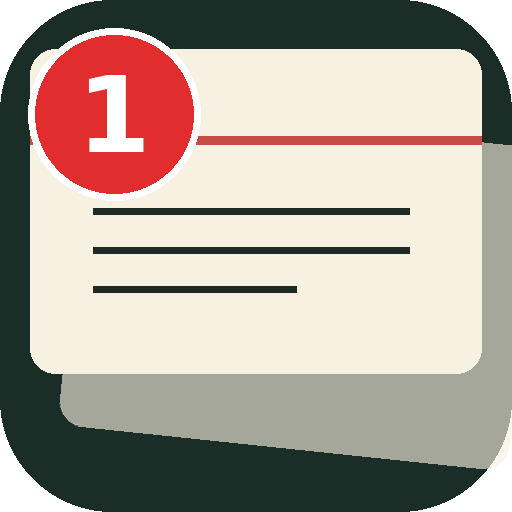
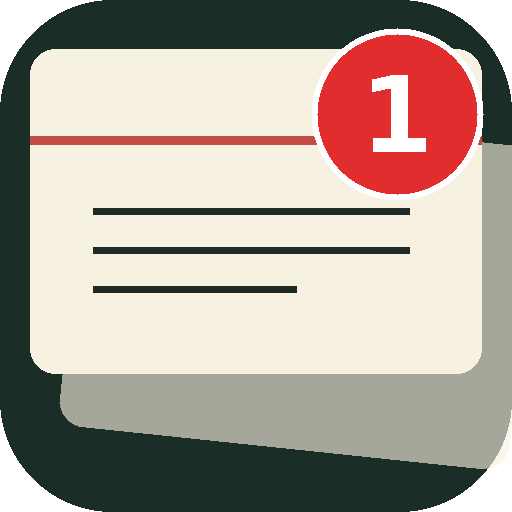
Add files via upload

Changed region(s): [[0.5938, 0.0312, 0.9688, 0.4062], [0.0312, 0.0312, 0.4062, 0.4062]]

diff --git a/css/style.css b/css/style.css
@@ -83,8 +83,7 @@ textarea, input {
 }
 
 /* Le fanion ✎ est présenté comme une icône d'appli (fond "squircle" façon
-   icône d'écran d'accueil), pour que la pastille qui le chevauche se lise
-   sans ambiguïté comme un badge de notification iOS. */
+   icône d'écran d'accueil). */
 .brand-mark-wrap {
   position: relative;
   display: inline-flex;
@@ -103,32 +102,6 @@ textarea, input {
   transform: rotate(-8deg);
   display: inline-block;
 }
-
-/* Pastille de notification façon icône iOS : cercle rouge en dégradé,
-   chevauchant le coin supérieur droit de l'icône, avec le liseré clair qui
-   la "découpe" du fond — comme sur l'écran d'accueil de l'iPhone. La police
-   système (plutôt que la police mono de l'appli) est ce qui rapproche le
-   plus le rendu du badge natif iOS. */
-.brand-badge {
-  position: absolute;
-  top: -6px;
-  right: -6px;
-  min-width: 17px;
-  height: 17px;
-  padding: 0 4px;
-  border-radius: 999px;
-  background: linear-gradient(180deg, #ff5c50, #e0362a);
-  color: #ffffff;
-  font-family: -apple-system, BlinkMacSystemFont, "SF Pro Text", var(--font-mono);
-  font-size: 11px;
-  font-weight: 700;
-  line-height: 17px;
-  text-align: center;
-  letter-spacing: 0;
-  box-shadow: 0 0 0 2px var(--desk);
-}
-
-.brand-badge[hidden] { display: none; }
 
 .brand h1 {
   margin: 0;
@@ -472,18 +445,13 @@ textarea, input {
 /* Boutons "Modifier" et "Hibernation" : posés dans le coin supérieur droit de
    la pile (au-dessus de la fiche, hors de l'élément qui la retourne), donc
    toujours visibles et cliquables côté question comme côté réponse, sans
-   déclencher le retournement de la fiche.
-   Le trou perforé (.hole) est physiquement en haut à gauche de la fiche,
-   mais comme toute la fiche pivote à 180° (rotateY) côté réponse, il se
-   retrouve visuellement en haut à droite — juste sous ces boutons. On les
-   décale donc vers la gauche (right: 50px / 90px, au lieu de 12px) pour
-   qu'ils ne chevauchent plus le trou une fois la fiche retournée. */
+   déclencher le retournement de la fiche. */
 .card-icon-btn {
   position: absolute;
-  top: 12px;
+  top: 10px;
   z-index: 5;
-  width: 32px;
-  height: 32px;
+  width: 34px;
+  height: 34px;
   border-radius: 50%;
   border: none;
   background: rgba(35, 48, 42, 0.08);
@@ -503,10 +471,23 @@ textarea, input {
 
 .card-icon-btn[hidden] { display: none; }
 
-.card-edit-btn { right: 50px; }
+/* Bouton "Modifier" : agrandi et plus contrasté que les autres icônes (le
+   crayon ✎ passait facilement inaperçu) — fond plus marqué, trait plus épais
+   et plus sombre. */
+.card-edit-btn {
+  right: 12px;
+  width: 42px;
+  height: 42px;
+  font-size: 22px;
+  font-weight: 700;
+  background: rgba(35, 48, 42, 0.14);
+  color: var(--ink);
+}
+
+.card-edit-btn:hover { background: rgba(35, 48, 42, 0.22); }
 
 .card-hibernate-btn {
-  right: 90px;
+  right: 60px;
   font-size: 14px;
 }
 
@@ -520,23 +501,13 @@ textarea, input {
   z-index: 2;
 }
 
-.hole {
-  position: absolute;
-  top: 20px; left: 20px;
-  width: 12px; height: 12px;
-  border-radius: 50%;
-  background: var(--desk);
-  box-shadow: inset 0 2px 3px rgba(0,0,0,0.4);
-  z-index: 2;
-}
-
 .card-face {
   position: absolute;
   inset: 0;
   backface-visibility: hidden;
   -webkit-backface-visibility: hidden;
   border-radius: var(--radius-card);
-  padding: 34px 26px 24px 46px;
+  padding: 34px 26px 24px 26px;
   display: flex;
   flex-direction: column;
   gap: 14px;
@@ -677,10 +648,10 @@ textarea, input {
   cursor: pointer;
 }
 
-.chart.chart--mini { height: 42px; }
-.chart.chart--mini .chart-col { gap: 1px; }
-.chart.chart--mini .chart-value { display: none; }
-.chart.chart--mini .chart-label { font-size: 7px; height: 8px; }
+.chart.chart--mini { height: 136px; }
+.chart.chart--mini .chart-col { gap: 3px; }
+.chart.chart--mini .chart-value { font-size: 10px; }
+.chart.chart--mini .chart-label { font-size: 9px; height: 12px; }
 
 /* ============================================================
    MANAGE VIEW: form + list

diff --git a/js/app.js b/js/app.js
@@ -63,7 +63,7 @@
   const reviewChartScaleLabelEl = el("review-chart-scale-label");
   const reviewChartSubjectNameEl = el("review-chart-subject-name");
   const REVIEW_CHART_STEPS = [15, 30, 90, 182, 365];
-  const REVIEW_CHART_MAX_BAR_PX = 33;
+  const REVIEW_CHART_MAX_BAR_PX = 100;
   let reviewChartRangeDays = 15;
 
   /* Réglages du mode bonus : nombre de jours dont chaque note recule la
@@ -418,21 +418,9 @@
     return subjectCards().filter((c) => SM2.isDue(c));
   }
 
-  function renderBrandBadge(due) {
-    const badgeEl = el("brand-badge");
-    if (!badgeEl) return;
-    if (due > 0) {
-      badgeEl.textContent = due > 99 ? "99+" : String(due);
-      badgeEl.hidden = false;
-    } else {
-      badgeEl.hidden = true;
-    }
-  }
-
   function renderDuePill() {
     const due = dueCards().length;
     dueCountEl.textContent = String(due);
-    renderBrandBadge(due);
 
     // Dès que le compteur atteint 0, la pastille passe en blanc (comme en
     // mode bonus) — que l'on soit ou non dans une session de révision.
@@ -1079,10 +1067,6 @@
     return buckets;
   }
 
-  function formatChartDate(date) {
-    return `${date.getDate()}/${date.getMonth() + 1}`;
-  }
-
   /** Dessine un histogramme "fiches dues par jour" dans les éléments fournis.
    *  Factorisé pour être partagé entre le grand graphique de l'onglet Stats
    *  et le mini graphique de la page Réviser (matière en cours). */
@@ -1108,11 +1092,10 @@
     const dense = days > 31;
     chartEl.classList.toggle("chart--dense", dense);
 
-    // Espace les étiquettes de date pour rester lisible sur les longues périodes ;
-    // la fiche du jour et le dernier jour affiché restent toujours étiquetés.
-    const labelEvery =
-      days <= 15 ? 1 : days <= 31 ? 2 : days <= 93 ? 7 : days <= 182 ? 14 : 30;
-
+    // Les dates par colonne ont été retirées (trop de bruit visuel) : seul
+    // "Auj." reste, sur la première colonne. L'échelle affichée (15 j, 1
+    // mois...) est indiquée ailleurs (étiquette au-dessus du graphique),
+    // donc pas besoin de répéter chaque date individuelle ici.
     const frag = document.createDocumentFragment();
     buckets.forEach((b, i) => {
       const col = document.createElement("div");
@@ -1132,8 +1115,7 @@
 
       const label = document.createElement("span");
       label.className = "chart-label";
-      const showLabel = i === 0 || i === buckets.length - 1 || i % labelEvery === 0;
-      label.textContent = showLabel ? (i === 0 ? "Auj." : formatChartDate(b.date)) : "";
+      label.textContent = i === 0 ? "Auj." : "";
 
       col.appendChild(value);
       col.appendChild(bar);

diff --git a/index.html b/index.html
@@ -28,7 +28,6 @@
     <div class="brand">
       <span class="brand-mark-wrap">
         <span class="brand-mark" aria-hidden="true">✎</span>
-        <span class="brand-badge" id="brand-badge" hidden aria-hidden="true"></span>
       </span>
       <h1>Fiches</h1>
     </div>
@@ -74,7 +73,6 @@
           <div class="stack-card stack-card--back-1" aria-hidden="true"></div>
           <button class="stack-card stack-card--front" id="flip-card" type="button" aria-label="Retourner la fiche">
             <div class="rule-line"></div>
-            <div class="hole" aria-hidden="true"></div>
             <div class="card-face card-face--question">
               <span class="card-label">Question</span>
               <p class="card-text" id="question-text"></p>
@@ -110,6 +108,10 @@
       </div>
 
       <div class="review-chart-section" id="review-chart-section">
+        <button class="chart-title--tap" id="review-chart-toggle" type="button" title="Toucher pour changer la période affichée">
+          <span id="review-chart-subject-name">Fiches à revoir</span>
+          <span class="chart-scale-tag" id="review-chart-scale-label">15 j</span>
+        </button>
         <div class="chart-wrap chart-wrap--mini" id="review-chart-wrap">
           <div class="chart chart--mini" id="review-due-chart"></div>
         </div>

diff --git a/sw.js b/sw.js
@@ -1,4 +1,4 @@
-const CACHE_NAME = "fiches-cache-v21";
+const CACHE_NAME = "fiches-cache-v22";
 
 const CORE_ASSETS = [
   "./",
